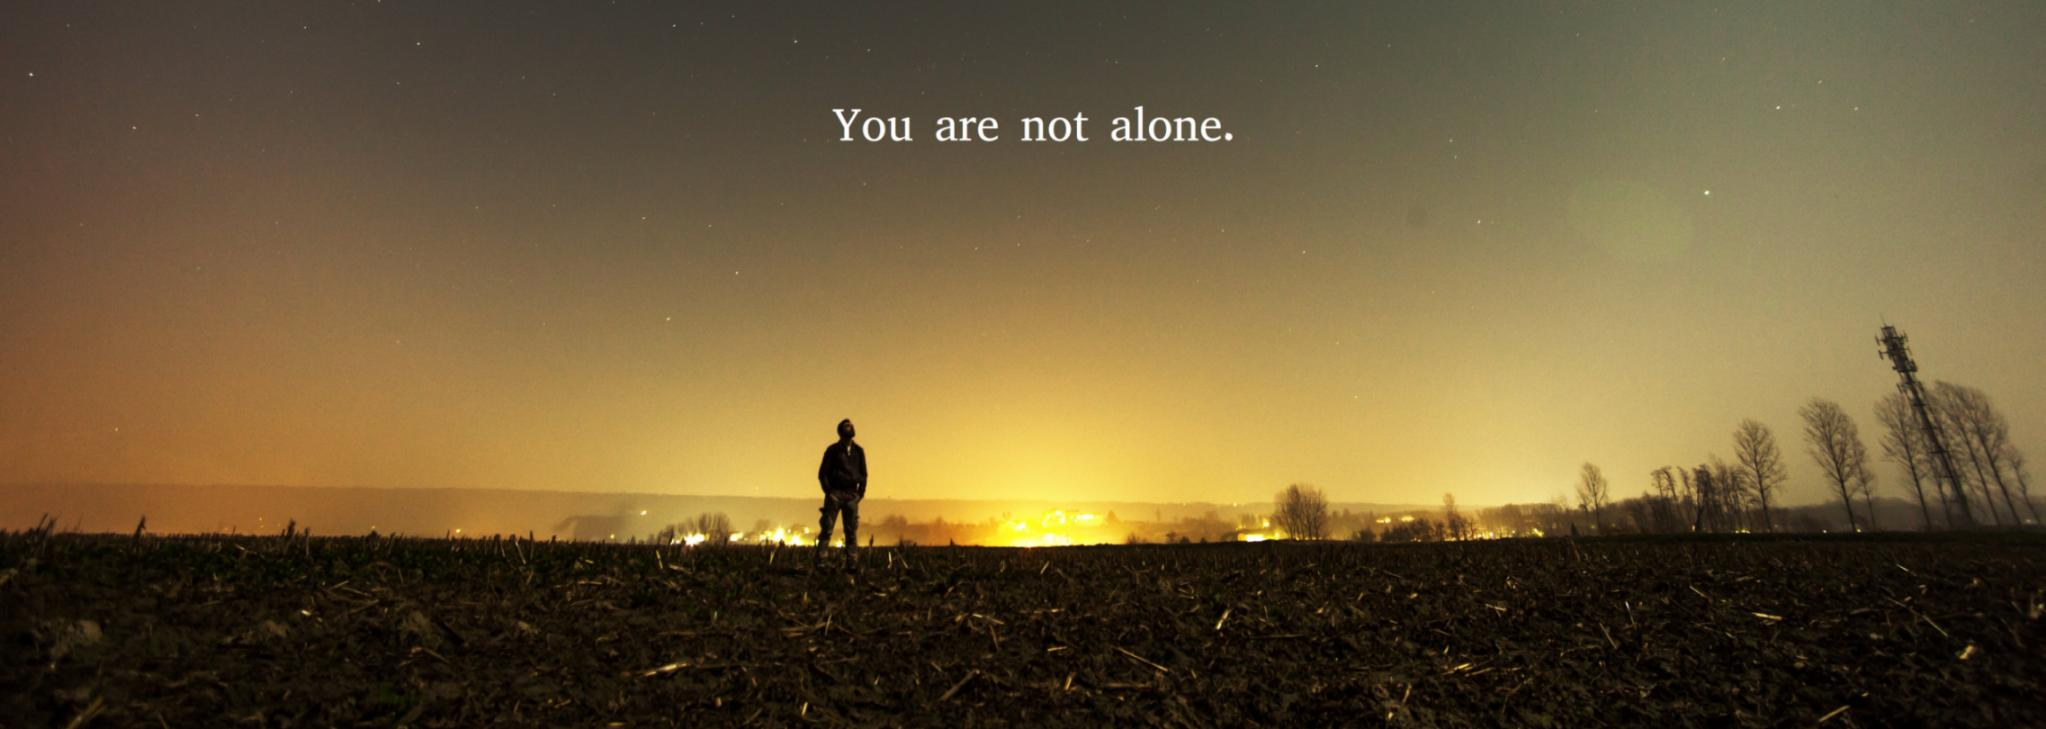
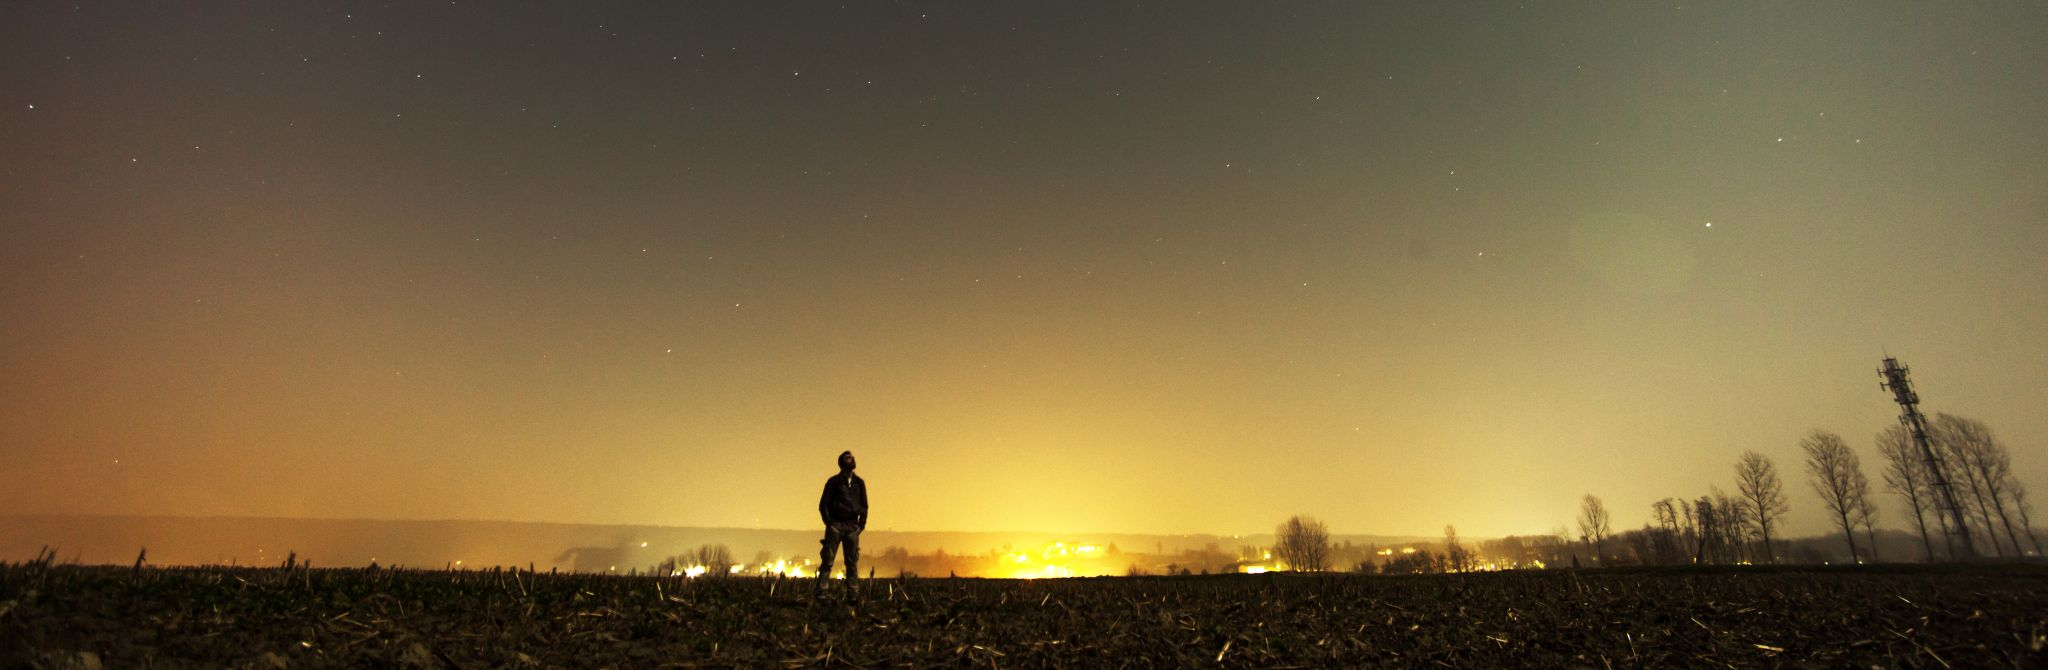
nearby does not seem to work on fongo

diff --git a/web/src/main/webapp/js/comms.js b/web/src/main/webapp/js/comms.js
@@ -6,6 +6,7 @@ app.registerCtrl('CommsCtrl', ['$scope', '$routeParams', '$http', function ($sco
 	}, function(error) {
 		alert(error);
 	});
+
 }]);
 
 app.registerCtrl('NewCommCtrl', ['$scope', '$q', 'commService', 'userService', function ($scope, $q, commService, userService) {
@@ -20,8 +21,8 @@ app.registerCtrl('NewCommCtrl', ['$scope', '$q', 'commService', 'userService', f
 	});
 
     $scope.submit = function() {
-		commService.create({}, $scope.newComm, function() {
-			window.location.href = '/#/profile';
+		commService.create({}, $scope.newComm, function(response) {
+			window.location.href = '/#/comms/' + response.id;
 		});
 	};
 

diff --git a/web/src/main/webapp/css/app.css b/web/src/main/webapp/css/app.css
@@ -152,6 +152,15 @@ body {
      margin: 0 auto;
  }
 
+.slogan {
+    position: absolute;
+    top: 100px;
+    text-align: center;
+    font-size: 20px;
+    color: #efe;
+    width: 100%;
+}
+
 /* Footer Styles */
 footer {
     margin: 50px 0;

diff --git a/web/src/main/webapp/home.html b/web/src/main/webapp/home.html
@@ -1,5 +1,6 @@
 
 <img src="img/alone.jpg" class="img-responsive centered"/>
+<div class="slogan">You Are Not Alone.</div>
 
 <div class="section">
     <div class="container">
